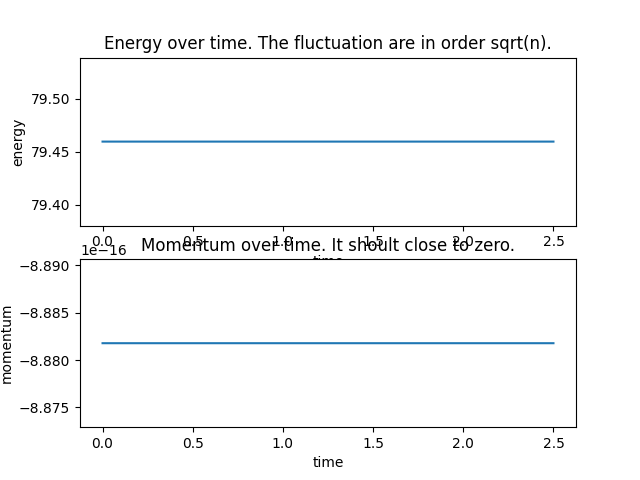
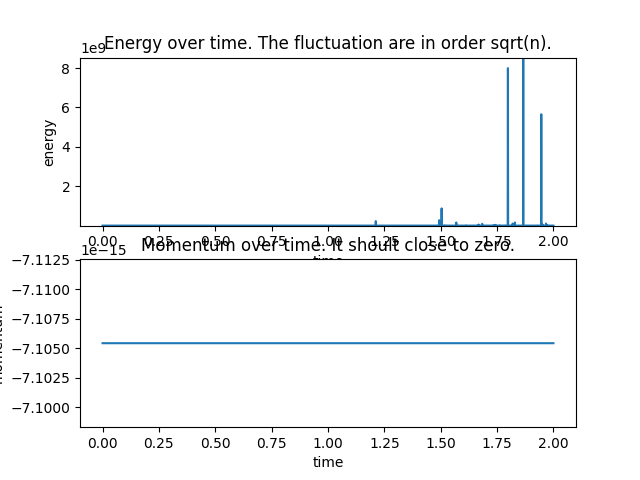
Refactor and plots

diff --git a/code/dynamics.py b/code/dynamics.py
@@ -1,5 +1,7 @@
 import itertools
 import numpy as np
+import scipy
+from scipy import constants
 import random
 import time
 import math
@@ -21,10 +23,29 @@ class MolecularDynamics:
 
         # Init particles positions and velocities
         self.particlePositions = np.zeros((numberOfParticles, dimension))
+        self.particlePositionsPrev = np.zeros((numberOfParticles, dimension))
         self.particleVelocities = (np.random.rand(numberOfParticles, dimension)-0.5) #assign randomly
         self.particleForces = np.zeros((numberOfParticles, dimension))
         self.potential_energy = 0
+        self.etot = 0 # TODO refactor
         self.latticePositions()
+
+        # self.updateVerletList()
+
+    def updateVerletList(self):
+        # To obtain O(n) particle interaction computation
+        sz = int(np.ceil(self.boxLength/self.rc))
+        self.verletList = np.empty((sz, sz), object)
+        # self.verletList.fill([])
+        for i in np.ndindex(self.verletList.shape):
+            self.verletList[i] = []
+        for i in range(self.numberOfParticles):
+            y_idx = int(np.ceil(self.particlePositions[i, 0] / self.rc))
+            x_idx = int(np.ceil(self.particlePositions[i, 1] / self.rc))
+            if len(self.verletList[y_idx, x_idx]) == 0:
+                self.verletList[y_idx, x_idx].append(i)
+            else:
+                self.verletList[y_idx, x_idx] = [i]
 
     def latticePositions(self):
         '''Assigns particles randomly in a regular lattice'''
@@ -46,6 +67,8 @@ class MolecularDynamics:
         v_cm = np.mean(self.particleVelocities, axis=0)
         self.particleVelocities = fs*(self.particleVelocities - v_cm)
 
+        self.particlePositionsPrev = self.particlePositions - self.particleVelocities * self.dt
+
     def evaluateKineticEnergy(self):
         return 0.5*np.sum(np.square(self.particleVelocities))
 
@@ -54,38 +77,102 @@ class MolecularDynamics:
 
     def evaluateTotalEnergy(self):
         return self.evaluateKineticEnergy() + self.evaluatePotentialEnergy()
+        # return self.etot
 
     def evaluateForce(self):
         #force = - gradient of potential
         self.particleForces = np.zeros((self.numberOfParticles, self.dimension))
-        for i in range(self.numberOfParticles-1):
-            for j in range(i+1, self.numberOfParticles):
+        self.potential_energy = 0 # reset the potential energy to zero. It will be updated during force computation
+        for i in range(self.numberOfParticles):
+            # Get neighbourhoods from verlet list
+            # y_idx = int(np.ceil(self.particlePositions[i, 0] / self.rc)) -1
+            # x_idx = int(np.ceil(self.particlePositions[i, 1] / self.rc)) -1
+            # cell = self.verletList[y_idx, x_idx]
+            # # Get all the neighbourhoods
+            # sz = self.verletList.shape[0]
+            # top = self.verletList[(y_idx+1)%sz, x_idx]
+            # top_right = self.verletList[(y_idx+1)%sz, (x_idx+1)%sz]
+            # top_left = self.verletList[(y_idx+1)%sz, (x_idx-1)%sz]
+            # right = self.verletList[y_idx, (x_idx+1)%sz]
+            # left = self.verletList[y_idx, (x_idx-1)%sz]
+            # bottom = self.verletList[(y_idx-1)%sz, x_idx]
+            # bottom_right = self.verletList[(y_idx-1)%sz, (x_idx+1)%sz]
+            # bottom_left = self.verletList[(y_idx-1)%sz, (x_idx-1)%sz]
+
+            # neighbourhood = np.concatenate([cell, top, top_right, top_left, right, left,
+            #                                 bottom, bottom_left, bottom_right]).astype(int)
+
+            for j in range(i+1, self.numberOfParticles): # if you don't want to use verlet list
+            # for j in neighbourhood:
+            #     if i != j:
                 xr = self.particlePositions[i,:]-self.particlePositions[j,:]
                 xr -= self.boxLength*np.ceil(xr/self.boxLength)
                 self.particleForces[i,:] += self.LJForce(xr)
                 self.particleForces[j,:] += -self.particleForces[i,:]
 
+    def LJPotential(self, r):
+        return 4*self.epsilon*np.power(self.sigma/r, 12)/r - np.power(self.sigma/r, 6) 
+
     def LJForce(self, xr):
-        r = np.linalg.norm(xr, 2)
-        ecut = (4*self.epsilon*((self.sigma/self.rc)**12-(self.sigma/self.rc)**6))
-        if r > self.rc:
+
+        rr = np.linalg.norm(xr)
+        # r2 = np.sqrt(rr)
+        # r2 = rr
+        ecut = self.LJPotential(self.rc)
+        if rr > self.rc:
             force = 0
         else:
-            force = 48/(r**2)*(1/(r**12)-0.5*1/(r**6))*xr - ecut
-        # Update energy
-        self.potential_energy += 4*(1/r**6)*(1/r**6 - 1) - ecut
+            r2i = self.sigma / rr                
+            r6i = np.power(r2i, 3)
+            force = 48*r2i *r6i* (r6i - 0.5)
+            force *= xr
+            # Update energy (which one is correct??)
+            # self.potential_energy += self.LJPotential(rr) - ecut 
+            self.potential_energy += 4*r6i*(r6i-1) - ecut 
         return force
 
     def IntegrateVerlet(self):
         '''Integrate in space using Verlet scheme'''
         
-        self.particlePositions = self.particlePositions + self.particleVelocities*self.dt + 0.5*self.particleForces*(self.dt)**2
-        # periodicity
-        self.particlePositions = np.mod(self.particlePositions, [self.boxLength, self.boxLength])
+        sumv = 0
+        sumv2 = 0
+        for i in range(self.numberOfParticles):
+            xx = 2*self.particlePositions[i,:] - self.particlePositionsPrev[i,:] + self.dt**2*self.particleForces[i]
+            vi = (xx-self.particlePositionsPrev[i,:])/(2*self.dt)
+            sumv += vi
+            sumv2 += vi**2
+            self.particlePositionsPrev[i,:] = self.particlePositions[i, :]
+            self.particlePositions[i, :] = xx
+
+            # Update verlet list
+            # y_idx = int(np.ceil(self.particlePositions[i, 0] / self.rc))
+            # x_idx = int(np.ceil(self.particlePositions[i, 1] / self.rc))
+            # if len(self.verletList[y_idx, x_idx]) == 0:
+            #     self.verletList[y_idx, x_idx].append(i)
+            # else:
+            #     self.verletList[y_idx, x_idx] = [i]
+
+        temp = sumv2/(3*self.numberOfParticles)
+        self.etot = (self.potential_energy + 0.5*sumv2)/self.numberOfParticles
+        # print(self.potential_energy)
+        # print(self.etot)
+
+        # self.particlePositions = self.particlePositions + self.particleVelocities*self.dt + 0.5*self.particleForces*(self.dt)**2
+        # # periodicity
+        # self.particlePositions = np.mod(self.particlePositions, [self.boxLength, self.boxLength])
+        # # Updating the verlet list takes O(n) time ...
+        # self.updateVerletList()
 
     def evaluateTotalMomentum(self):
         # the mass is 1 for each particle
         return np.sum(self.particleVelocities)
+
+    def thermostat(self, T_bath):
+        '''Berendsen thermostat'''
+        dt_inv_tau = 0.025 
+        T = 2/3 *(self.evaluateKineticEnergy()) / (self.numberOfParticles * constants.Boltzmann)
+        gamma = np.sqrt(1 + dt_inv_tau (T_bath/ T - 1))
+        self.particleVelocities *= gamma
 
     def output(self, filename):
         '''This can be used for 3D visualization'''
@@ -105,3 +192,4 @@ class MolecularDynamics:
         plt.ylim([-0.1*self.boxLength, 1.05*self.boxLength])
         plt.plot(self.particlePositions[:, 0], self.particlePositions[:, 1], '.r')
         plt.savefig(filename)
+        plt.close()

diff --git a/code/main.py b/code/main.py
@@ -11,22 +11,18 @@ dimension = 2 # this should work also in 3D but haven't tested much. Future work
 sigma = 1
 epsilon = 1
 rc = 2.5
-
 temperature = 0.5
 L = 30
 dt = 0.0001 #time step
-T_max = 25000
+T_max = 2000
 
 #set up the simulation
 simulation = dynamics.MolecularDynamics(numberOfParticles, L, dimension, 
                         sigma, epsilon, rc, temperature, dt)
 
-#calculating forces on particles in the box
-simulation.evaluateForce()
-
 #making a list of particle positions and velocities for acf and what not. You could make an animation out of this
-particlePositionsList = [simulation.particlePositions]
-particleVelocityList = [simulation.particleVelocities]
+particlePositionsList = []
+particleVelocityList = []
 
 #making a list of energies at various time steps to plot later
 energy = np.zeros(T_max+1,)
@@ -34,13 +30,13 @@ energy[0] = simulation.evaluateTotalEnergy()
 momentum = np.zeros(T_max+1,)
 momentum[0] = simulation.evaluateTotalMomentum()
 
-
 for i in range(T_max):
     if i % 1000 == 0:
        print('timestep:', i)
        simulation.plot('system{}.png'.format(i), i)
 
     #do the time step, knowing that simulation already knows the particle forces at the moment
+    simulation.evaluateForce()
     simulation.IntegrateVerlet() #evaluates forces on particles, updates particle positions and velocities
     energy[i+1] = simulation.evaluateTotalEnergy()
     momentum[i+1] = simulation.evaluateTotalMomentum()
